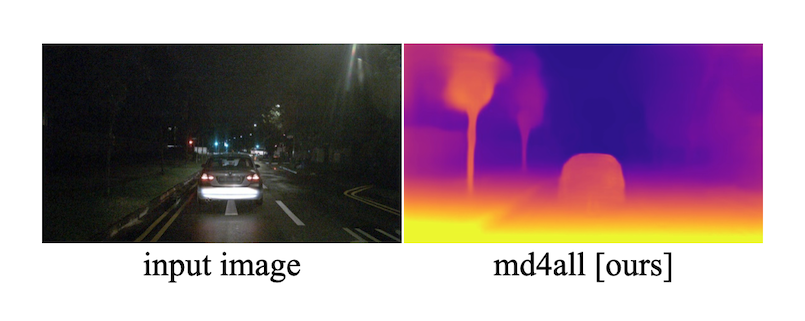
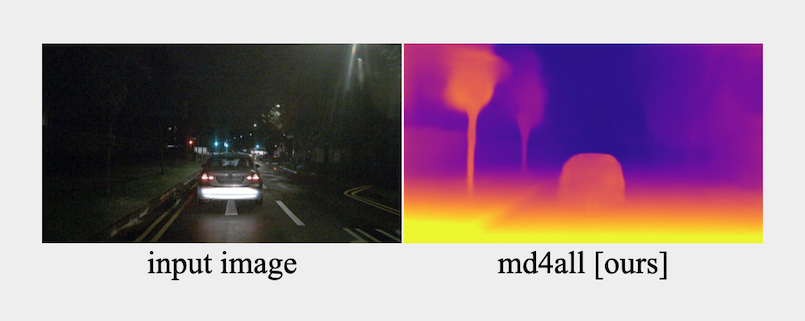
added background to the trees

Changed region(s): [[0.5901, 0.7788, 0.8385, 0.8723], [0.1553, 0.7788, 0.3727, 0.8723]]

diff --git a/index.html b/index.html
@@ -137,7 +137,7 @@
 </section>
 
 <section class="section" style="padding-top:1rem">
-  <div class="container is-max-desktop">
+  <div class="container is-max-desktop" style="background-color: rgb(240,240,240);padding-top:4rem;padding-bottom:4rem">
     <div class="columns is-centered has-text-centered">
       <div class="column is-four-fifths">
         <h2 class="title is-3" style="margin-bottom:0.7rem">Can you see the trees?</h2>
@@ -146,6 +146,9 @@
         </div>
         <div class="">
           <img src="images/trees.png"></img>
+        </div>
+        <div>
+          <p>Our model extracts robust features in all conditions, even in the dark.</p>
         </div>
       </div>
     </div>
@@ -221,10 +224,10 @@ In our ICCV paper, we demonstrate the <b>effectiveness of md4all in standard and
 </section>
 
 
-<section class="section" style="padding-top:1.5rem;padding-bottom:6rem" id="BibTeX">
+<section class="section" style="padding-top:1.5rem;padding-bottom:6rem;" id="BibTeX">
   <div class="container is-max-desktop content">
     <h2 class="title">BibTeX</h2>
-    <pre><code>@inproceedings{gasperini_morbitzer2023md4all,
+    <pre style="background-color: rgb(240,240,240);"><code>@inproceedings{gasperini_morbitzer2023md4all,
   title={Robust Monocular Depth Estimation under Challenging Conditions},
   author={Gasperini, Stefano and Morbitzer, Nils and Jung, HyunJun and Navab, Nassir and Tombari, Federico},
   booktitle={Proceedings of the IEEE/CVF International Conference on Computer Vision},
